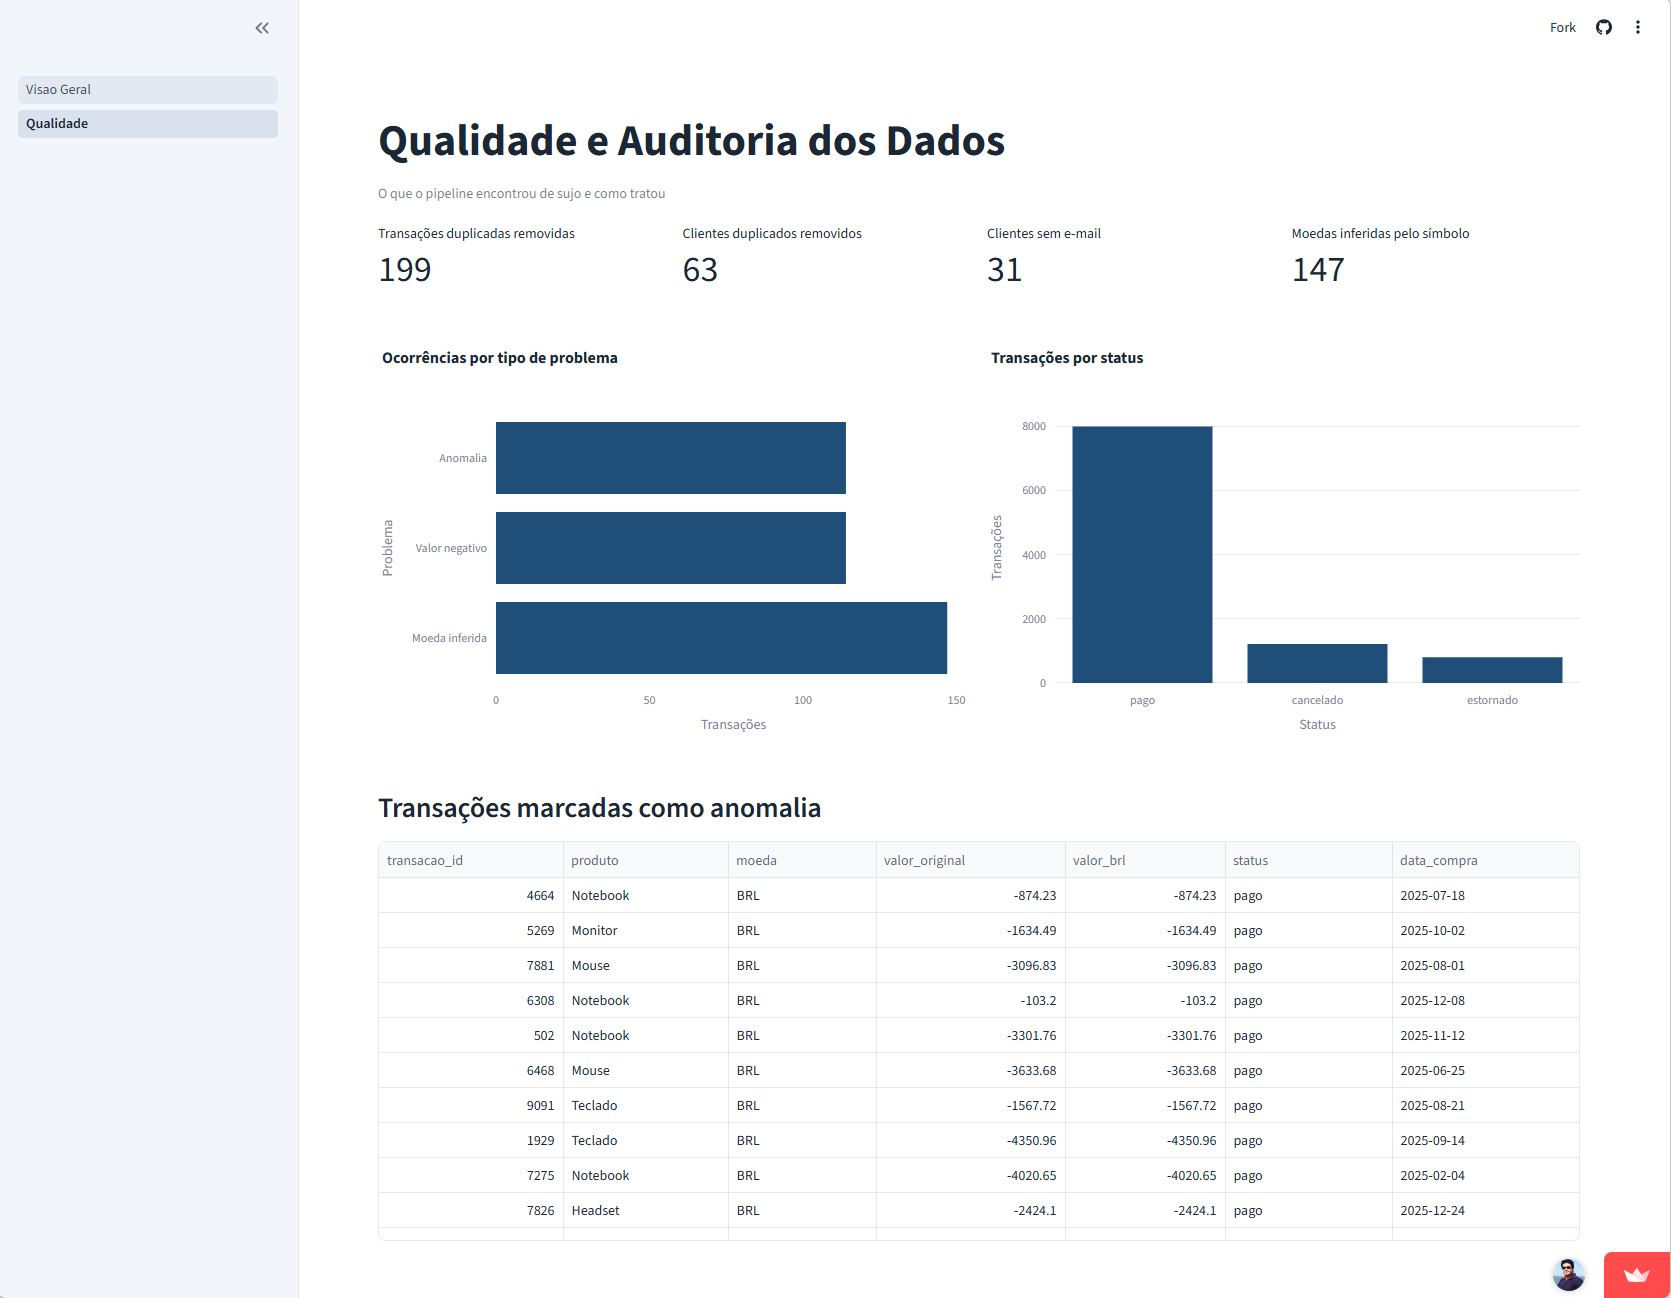
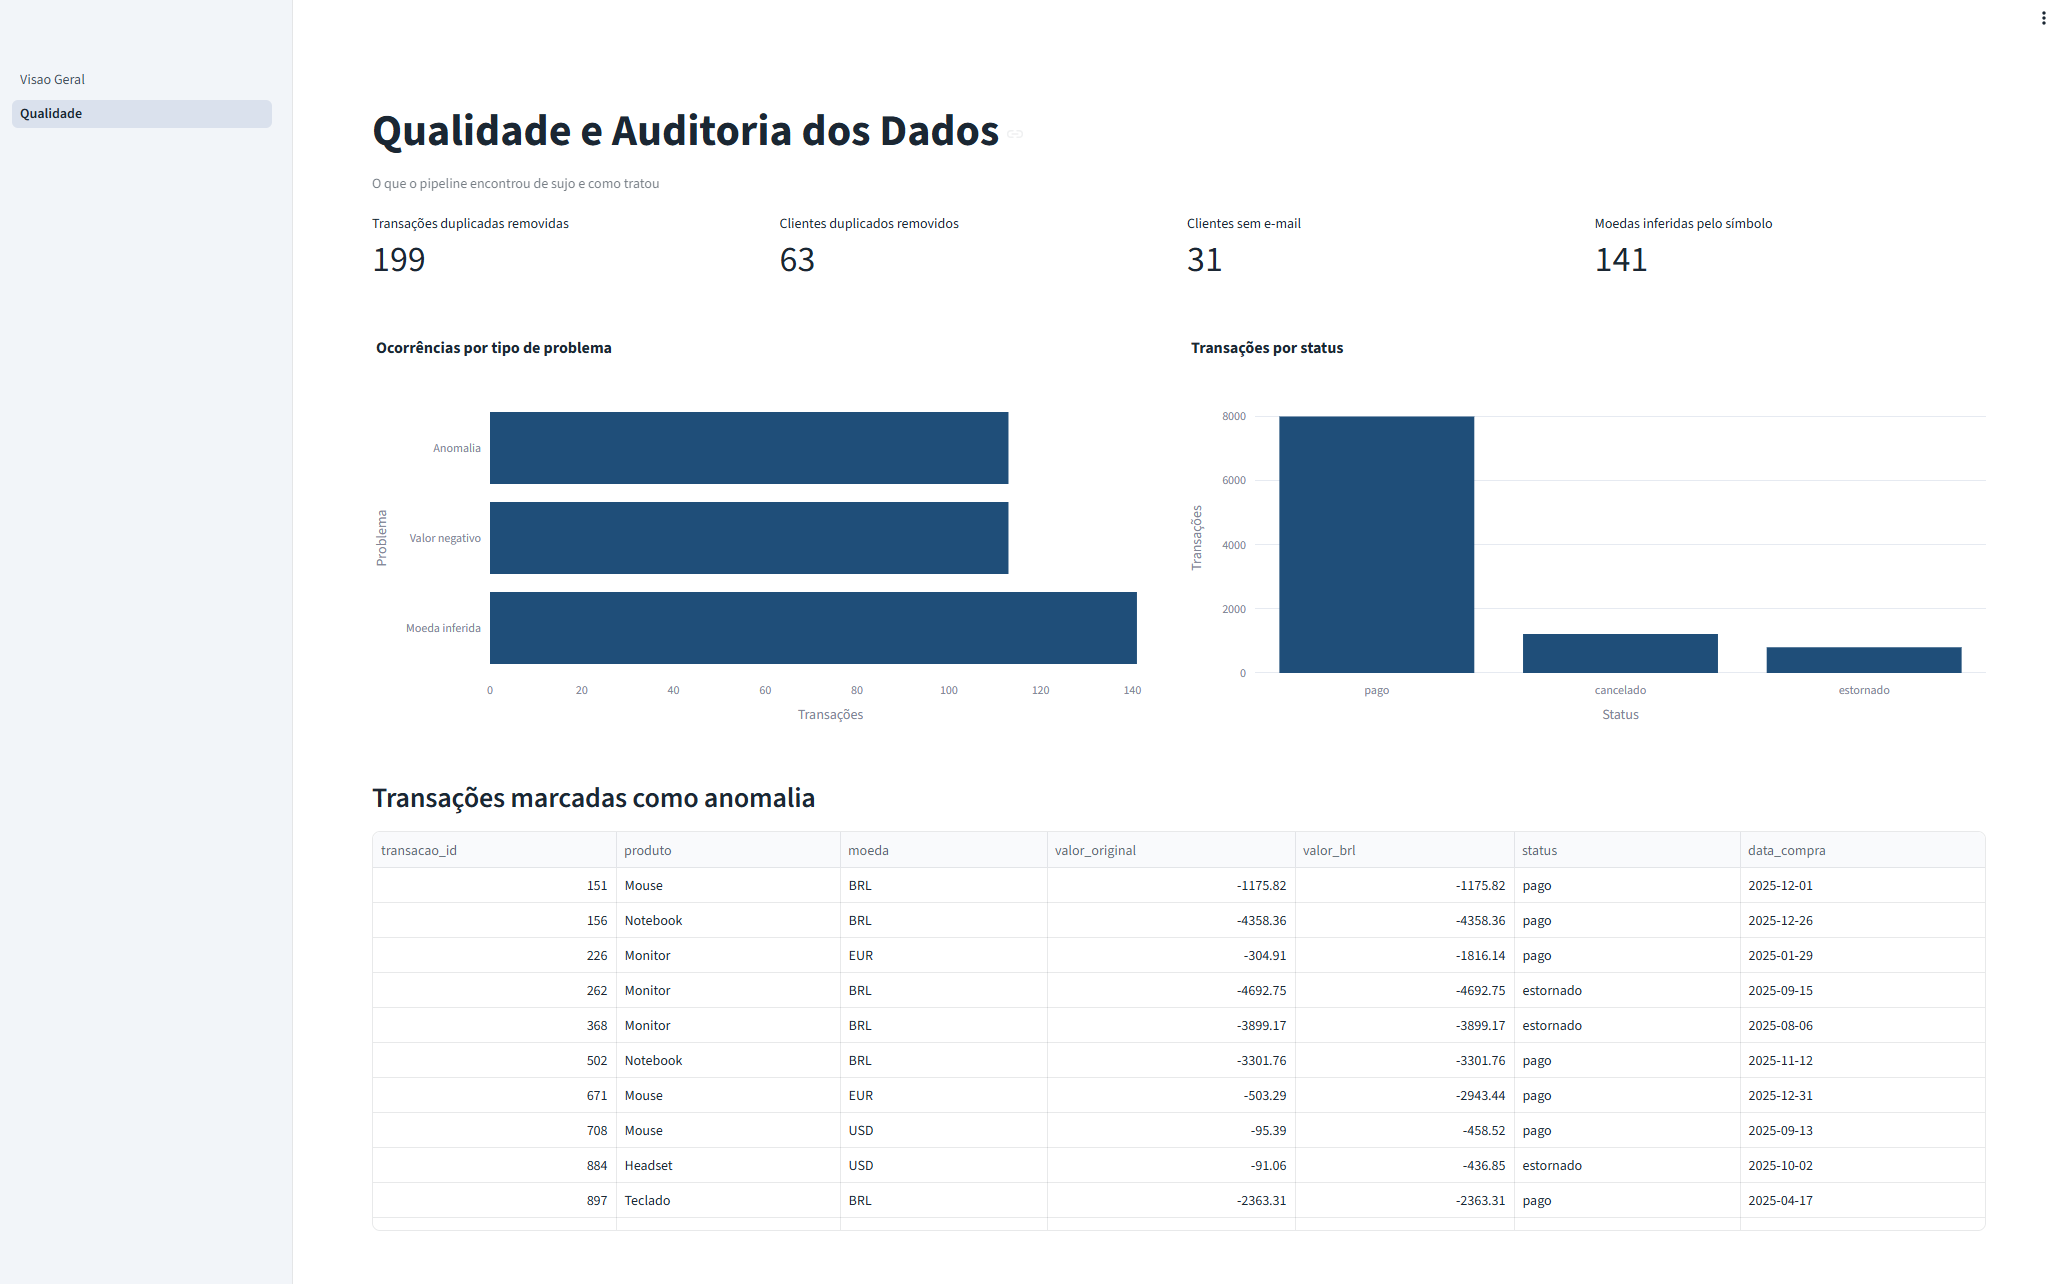
docs: README com deduplicacao deterministica e novo print de qualidade

diff --git a/README.md b/README.md
@@ -71,11 +71,26 @@ flowchart LR
 - `fct_transactions` é particionada por **faixa de inteiros** em `cliente_id` (0 a 1.100, intervalo de 100) e clusterizada por `status` e `data_compra`.
 - A primeira tentativa foi partição por data. No sandbox, as partições de 2025 expiraram sozinhas e a tabela ficou com 0 linhas, sem nenhum erro. A partição por faixa de inteiros não expira e resolveu o problema.
 
+### Deduplicação determinística
+
+As transações duplicadas não são cópias exatas: em 106 `transacao_id` as versões ainda divergem depois da limpeza (valor, símbolo da moeda e flag de moeda inferida). Sem desempate, o BigQuery escolhia uma versão arbitrária e o resultado podia mudar entre builds (ponto levantado por um leitor do post no LinkedIn).
+
+O `stg_transacoes` agora desempata em camadas:
+1. `data_compra` mais recente;
+2. valor não negativo (negativo é defeito marcado);
+3. moeda informada, em vez de inferida;
+4. valor escrito com símbolo de moeda;
+5. hash da linha, só como rede de segurança.
+
+A limpeza ficou em `stg_transacoes_limpo` (modelo efêmero) e a deduplicação em `stg_transacoes`. O teste `assert_duplicatas_sem_empate_arbitrario` falha se sobrar empate entre versões diferentes, e foi validado por sabotagem (falhou com 93 casos ao remover um critério).
+
+Impacto medido: 50 de 10.000 linhas mudaram. Receita, transações e ticket ficaram iguais; moedas inferidas passaram de 147 para 141 e valores negativos de 114 para 113.
+
 ## Qualidade e testes
 
-- **14 testes de dados**: genéricos (`unique`, `not_null`, `accepted_values`, `relationships`) e 2 singulares em SQL (`assert_no_negative_revenues` e `assert_one_current_version_per_customer`).
+- **15 testes de dados**: genéricos (`unique`, `not_null`, `accepted_values`, `relationships`) e 3 singulares em SQL (`assert_no_negative_revenues`, `assert_one_current_version_per_customer` e `assert_duplicatas_sem_empate_arbitrario`).
 - **Severidade**: e-mail ausente é `warn` (31 clientes), porque é um problema conhecido que não deve bloquear o pipeline. O restante é `error`.
-- **Resultado atual**: `PASS=21 WARN=1 ERROR=0` (8 modelos e 14 testes).
+- **Resultado atual**: `PASS=22 WARN=1 ERROR=0` (9 modelos, sendo 1 efêmero, e 15 testes).
 
 ### CI com GitHub Actions
 - A cada Pull Request, o workflow `dbt_ci.yml` roda `dbt build --target ci` num dataset separado (`dbt_cleansing_ci`), com uma service account de privilégio mínimo (BigQuery Job User e Data Editor), guardada como secret do repositório.
@@ -165,6 +180,7 @@ Os dados brutos (`data/raw/`) são gerados localmente e ficam fora do Git.
 
 ## Melhorias futuras
 
+- Centralizar os critérios de desempate em uma macro, para não duplicá-los entre o modelo e o teste.
 - Expor no fato mais flags de auditoria já calculadas na camada intermediate (como compra antes do cadastro). Hoje `flag_anomalia` coincide com `flag_valor_negativo`.
 - Testes nos marts, como `relationships` entre a tabela fato e a dimensão SCD2.
 - Modelos incrementais e documentação gerada com `dbt docs`.
